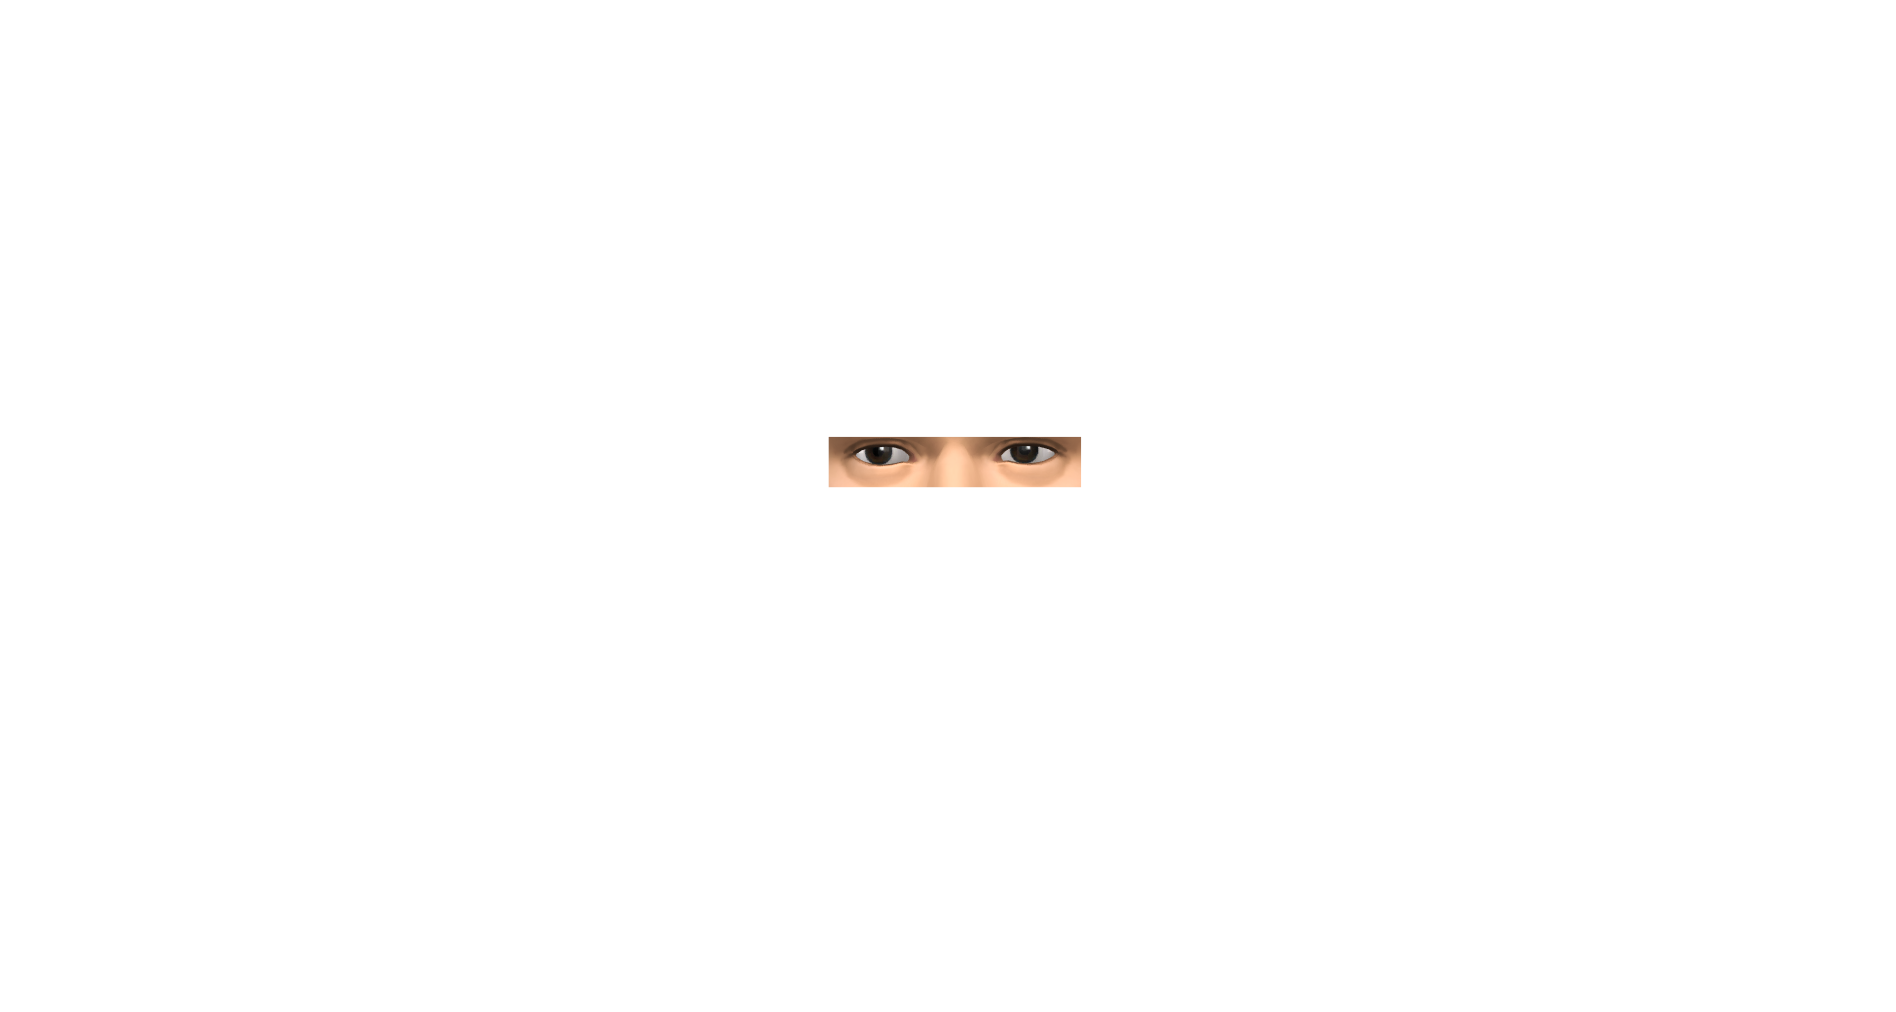
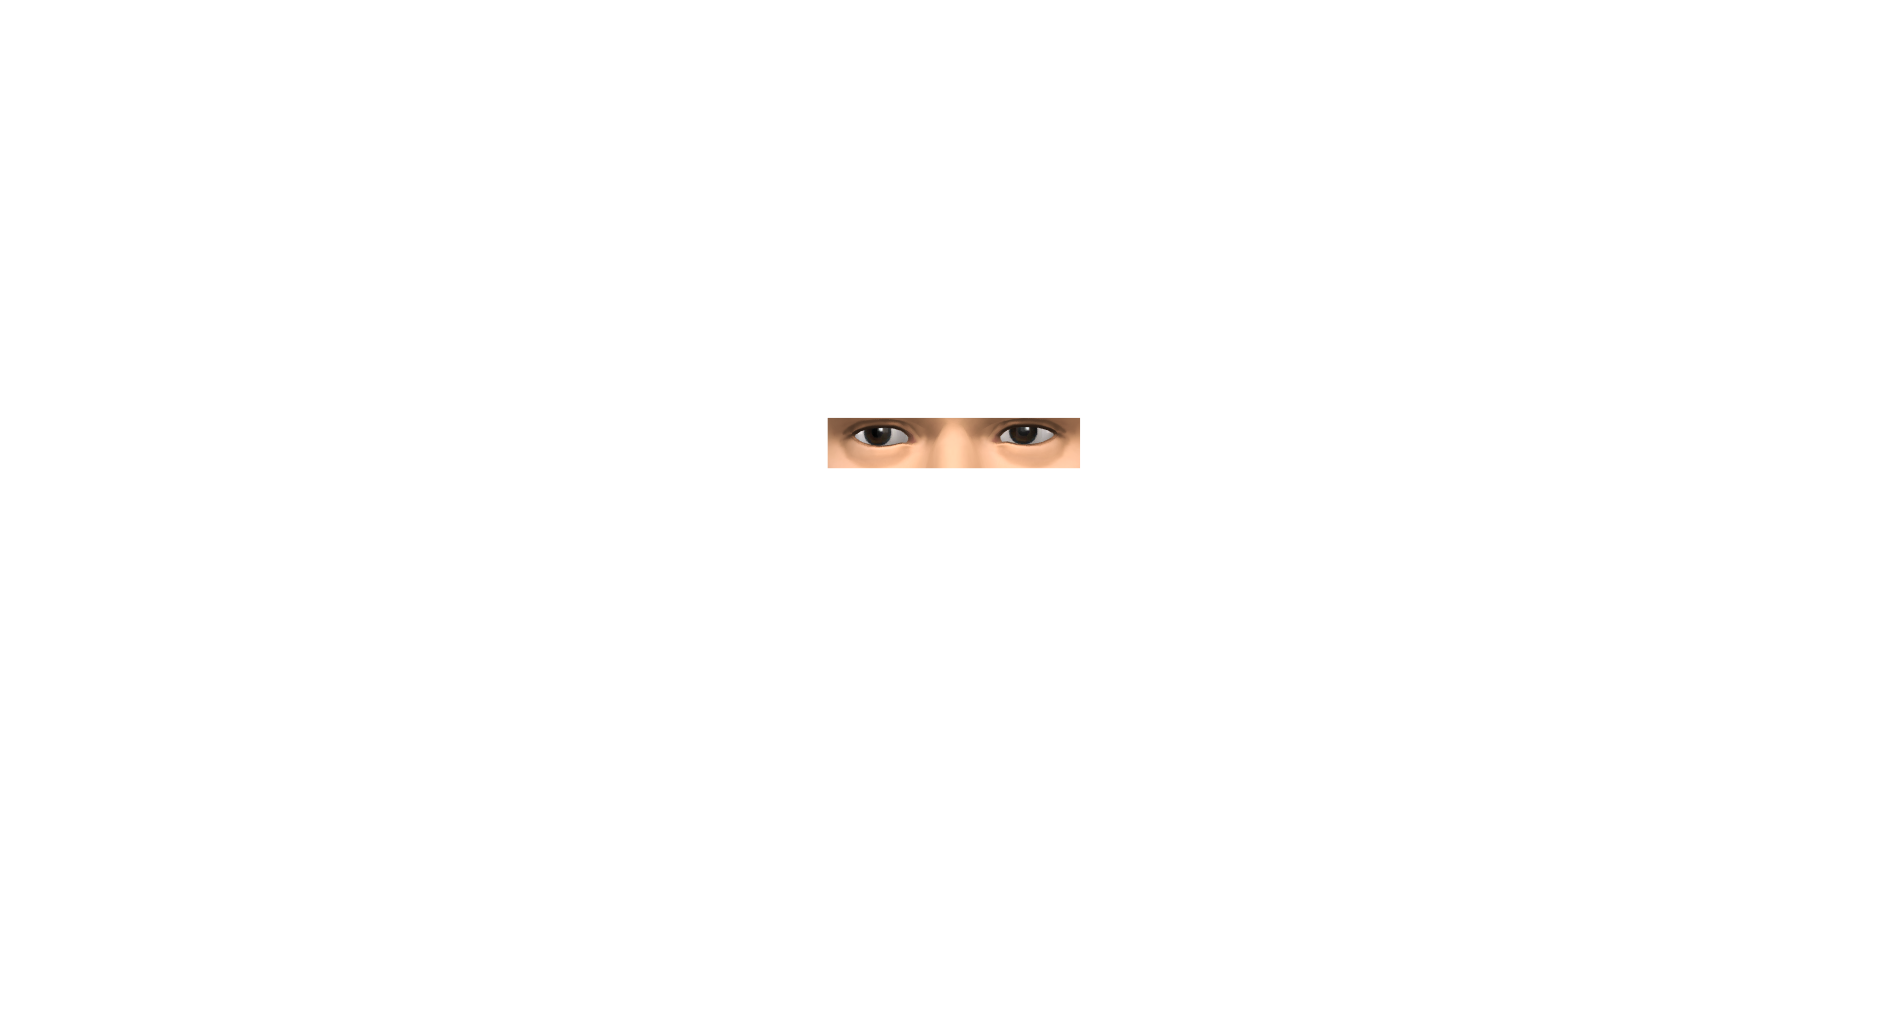
third commit

Changed region(s): [[0.4357, 0.3982, 0.5912, 0.4901]]

diff --git a/main4.py b/main4.py
@@ -16,11 +16,11 @@ screen = pygame.display.set_mode((SCREEN_WIDTH, SCREEN_HEIGHT))
 pygame.display.set_caption('Character Slot Machine')
 
 # Load images for different facial features and resize them
-hair_images = [pygame.transform.scale(pygame.image.load(f'images/hair_{i}.png'), (800, 430)) for i in range(1, 6)]
-eyes_images = [pygame.transform.scale(pygame.image.load(f'images/eyes_{i}.png'), (820, 400)) for i in range(1, 6)]
+hair_images = [pygame.transform.scale(pygame.image.load(f'images/hair_{i}.png'), (668, 375)) for i in range(1, 6)]
+eyes_images = [pygame.transform.scale(pygame.image.load(f'images/eyes_{i}.png'), (730, 370)) for i in range(1, 6)]
 nose_images = [pygame.transform.scale(pygame.image.load(f'images/nose_{i}.png'), (600, 420)) for i in range(1, 6)]
-mouth_images = [pygame.transform.scale(pygame.image.load(f'images/mouth_{i}.png'), (960, 480)) for i in range(1, 6)]
-background_image = pygame.transform.scale(pygame.image.load(f'background_images/base.png'), (800, 500))
+mouth_images = [pygame.transform.scale(pygame.image.load(f'images/mouth_{i}.png'), (960, 500)) for i in range(1, 6)]
+background_image = pygame.transform.scale(pygame.image.load(f'background_images/base.png'), (685, 364))
 
 # Current rolling indices (for the slot machine effect)
 rolling_hair = random.randint(0, len(hair_images) - 1)
@@ -89,10 +89,10 @@ def complete_draw_face(hair_pos=(SCREEN_WIDTH // 2, 50), eye_pos=(SCREEN_WIDTH /
     screen.blit(background_image, background_pos)
 
     # Adjust positions based on background image position
-    hair_pos = (background_pos[0] + background_image.get_width() // 2, background_pos[1] + 21)
-    eye_pos = (background_pos[0] + background_image.get_width() // 2, background_pos[1] + 45)
-    nose_pos = (background_pos[0] + background_image.get_width() // 2, background_pos[1] + 45)
-    mouth_pos = (background_pos[0] + background_image.get_width() // 2, background_pos[1] + 10)
+    hair_pos = (background_pos[0] + background_image.get_width() // 2, background_pos[1])
+    eye_pos = (background_pos[0] + background_image.get_width() // 2, background_pos[1] - 6)
+    nose_pos = (background_pos[0] + background_image.get_width() // 2, background_pos[1] - 25)
+    mouth_pos = (background_pos[0] + background_image.get_width() // 2, background_pos[1] - 75)
 
     # Draw hair
     screen.blit(hair_images[rolling_hair], (hair_pos[0] - hair_images[rolling_hair].get_width() // 2, hair_pos[1]))
